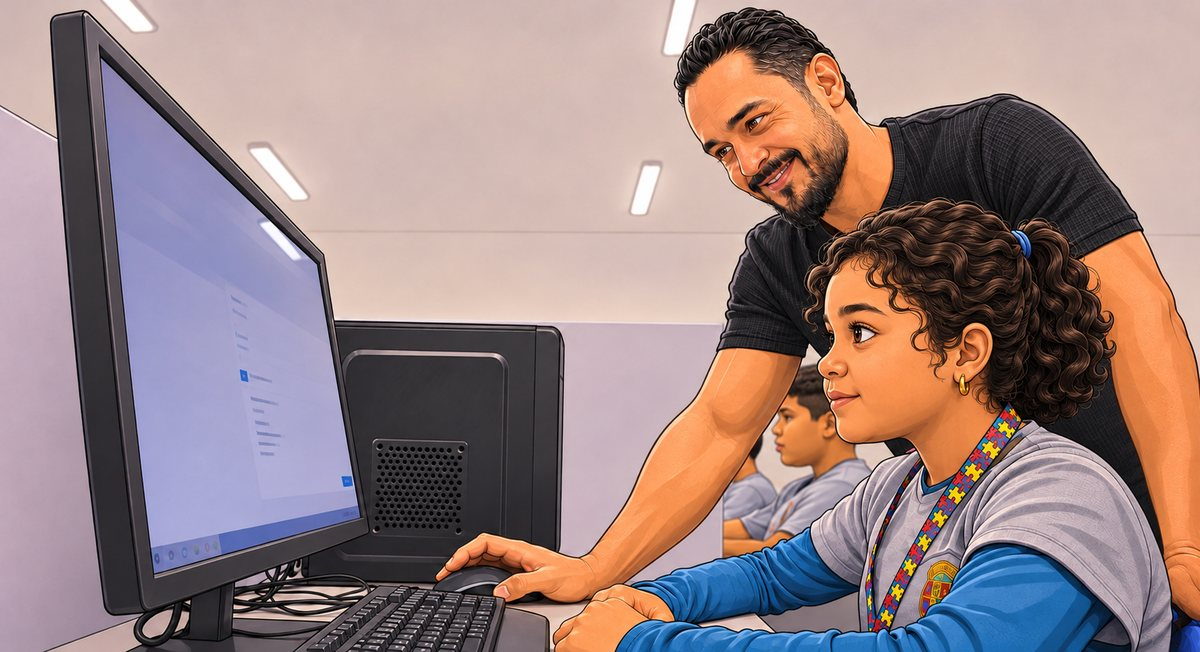
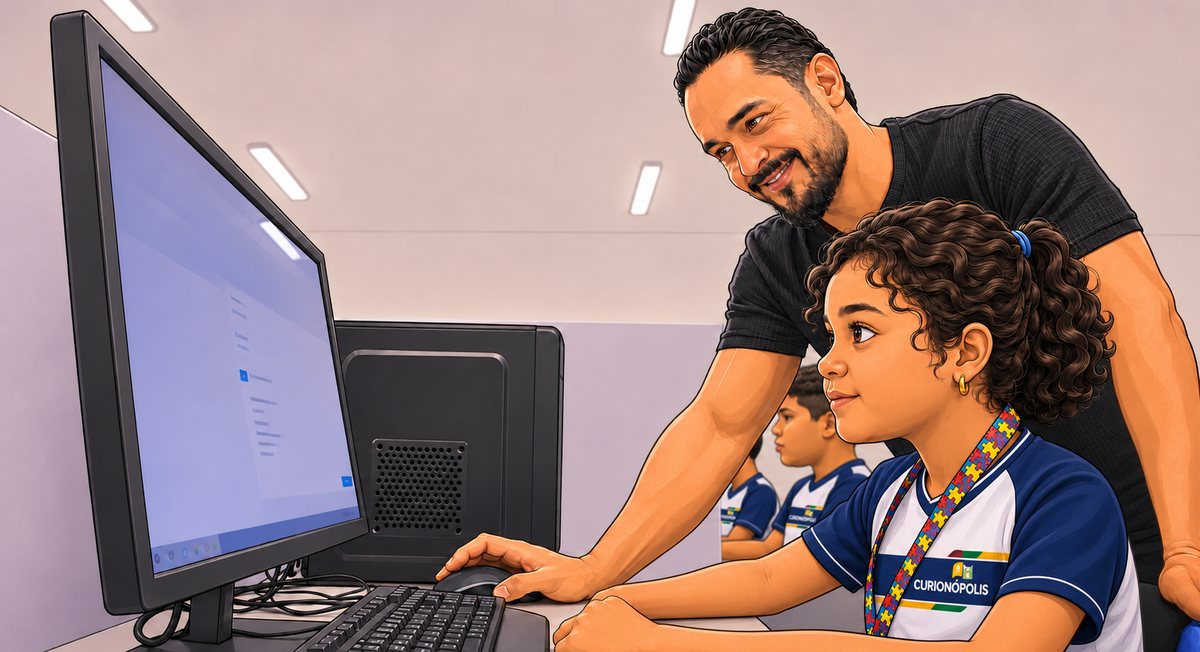
Ilustração com o uniforme novo
Claude-Session: https://claude.ai/code/session_01QQHyr69pa2zPoBBg1baFVy

diff --git a/index.html b/index.html
@@ -237,7 +237,7 @@ footer .prof{display:inline-flex;align-items:center;gap:8px;border:1px solid rgb
 
     <div class="hero-ilu">
       <figure class="hero-foto">
-        <img src="aula.jpg" alt="Professor Welington ajudando uma aluna no computador da sala de informática" width="1200" height="652">
+        <img src="aula.jpg?v=2" alt="Professor Welington ajudando uma aluna no computador da sala de informática" width="1200" height="652">
       </figure>
       <div class="hero-selo flutua">🤖 Aula de Informática</div>
     </div>
